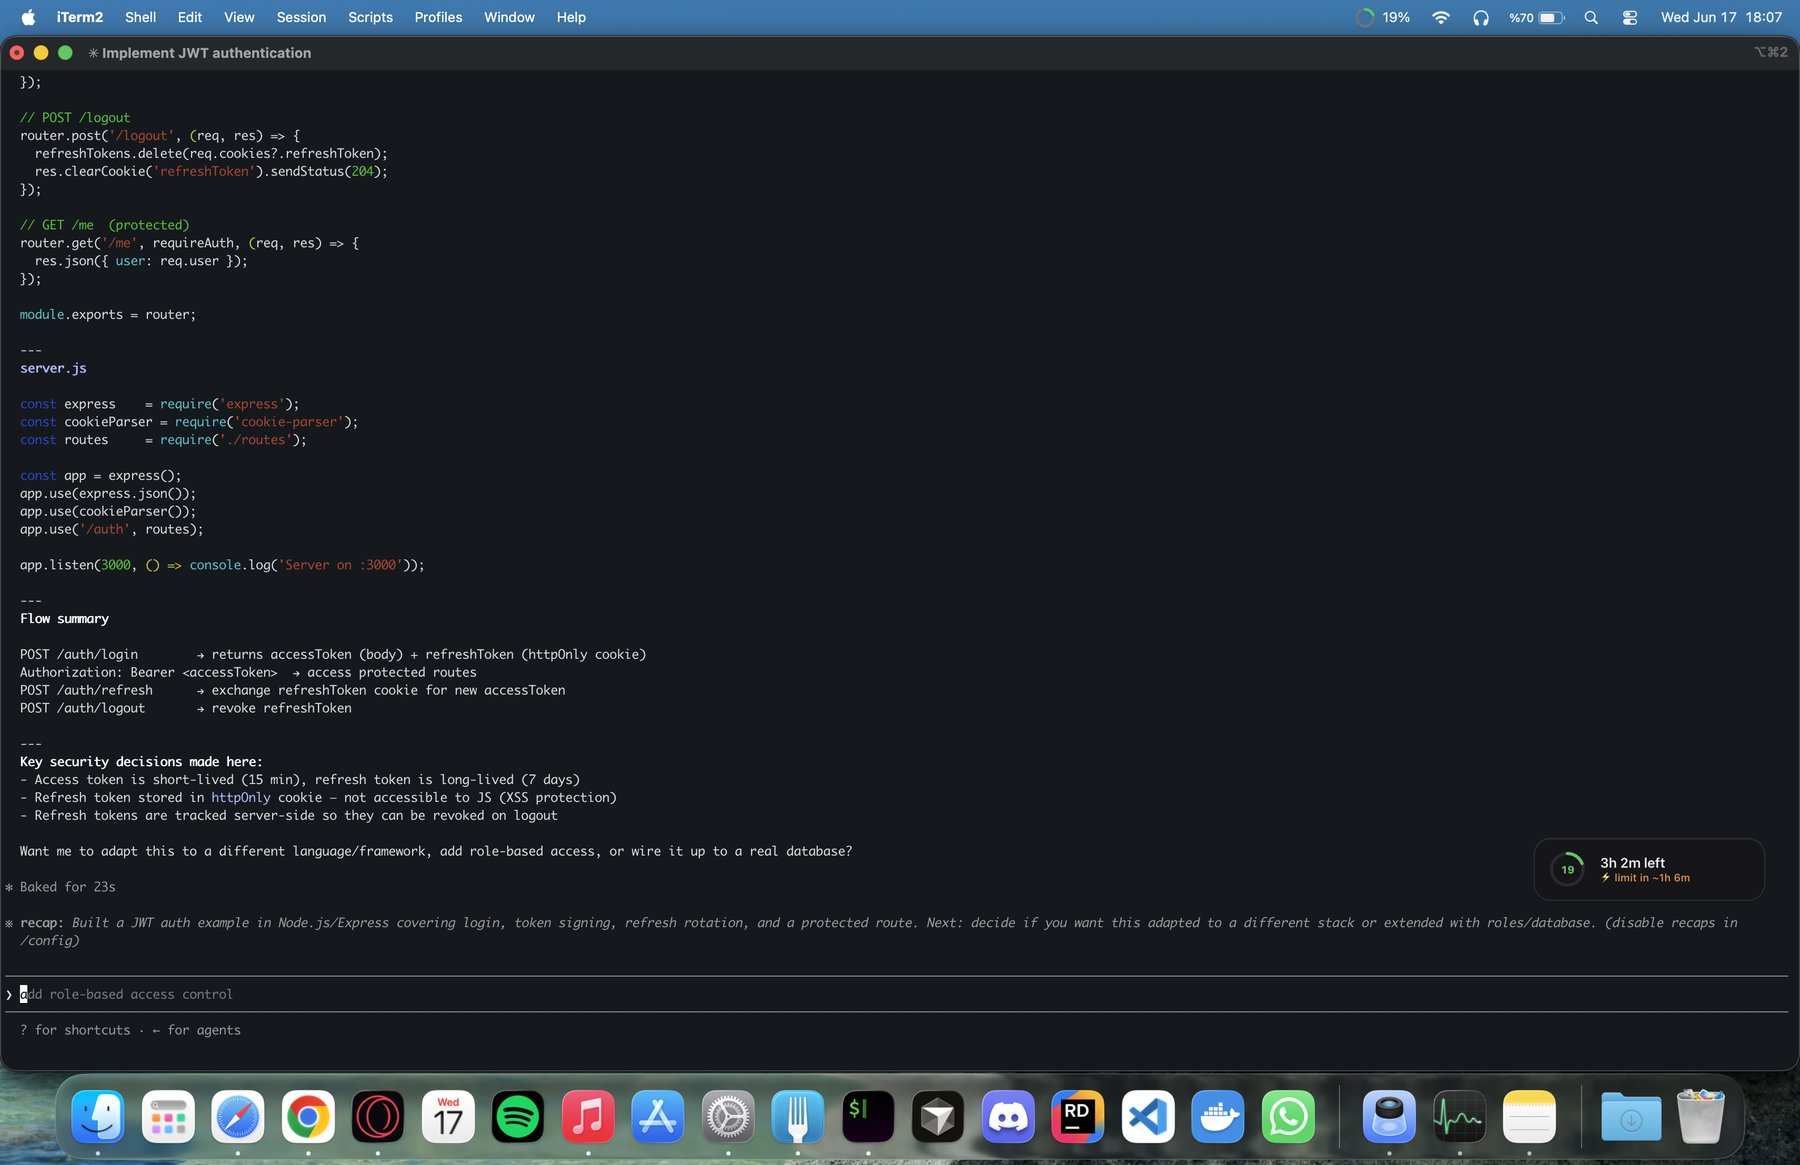
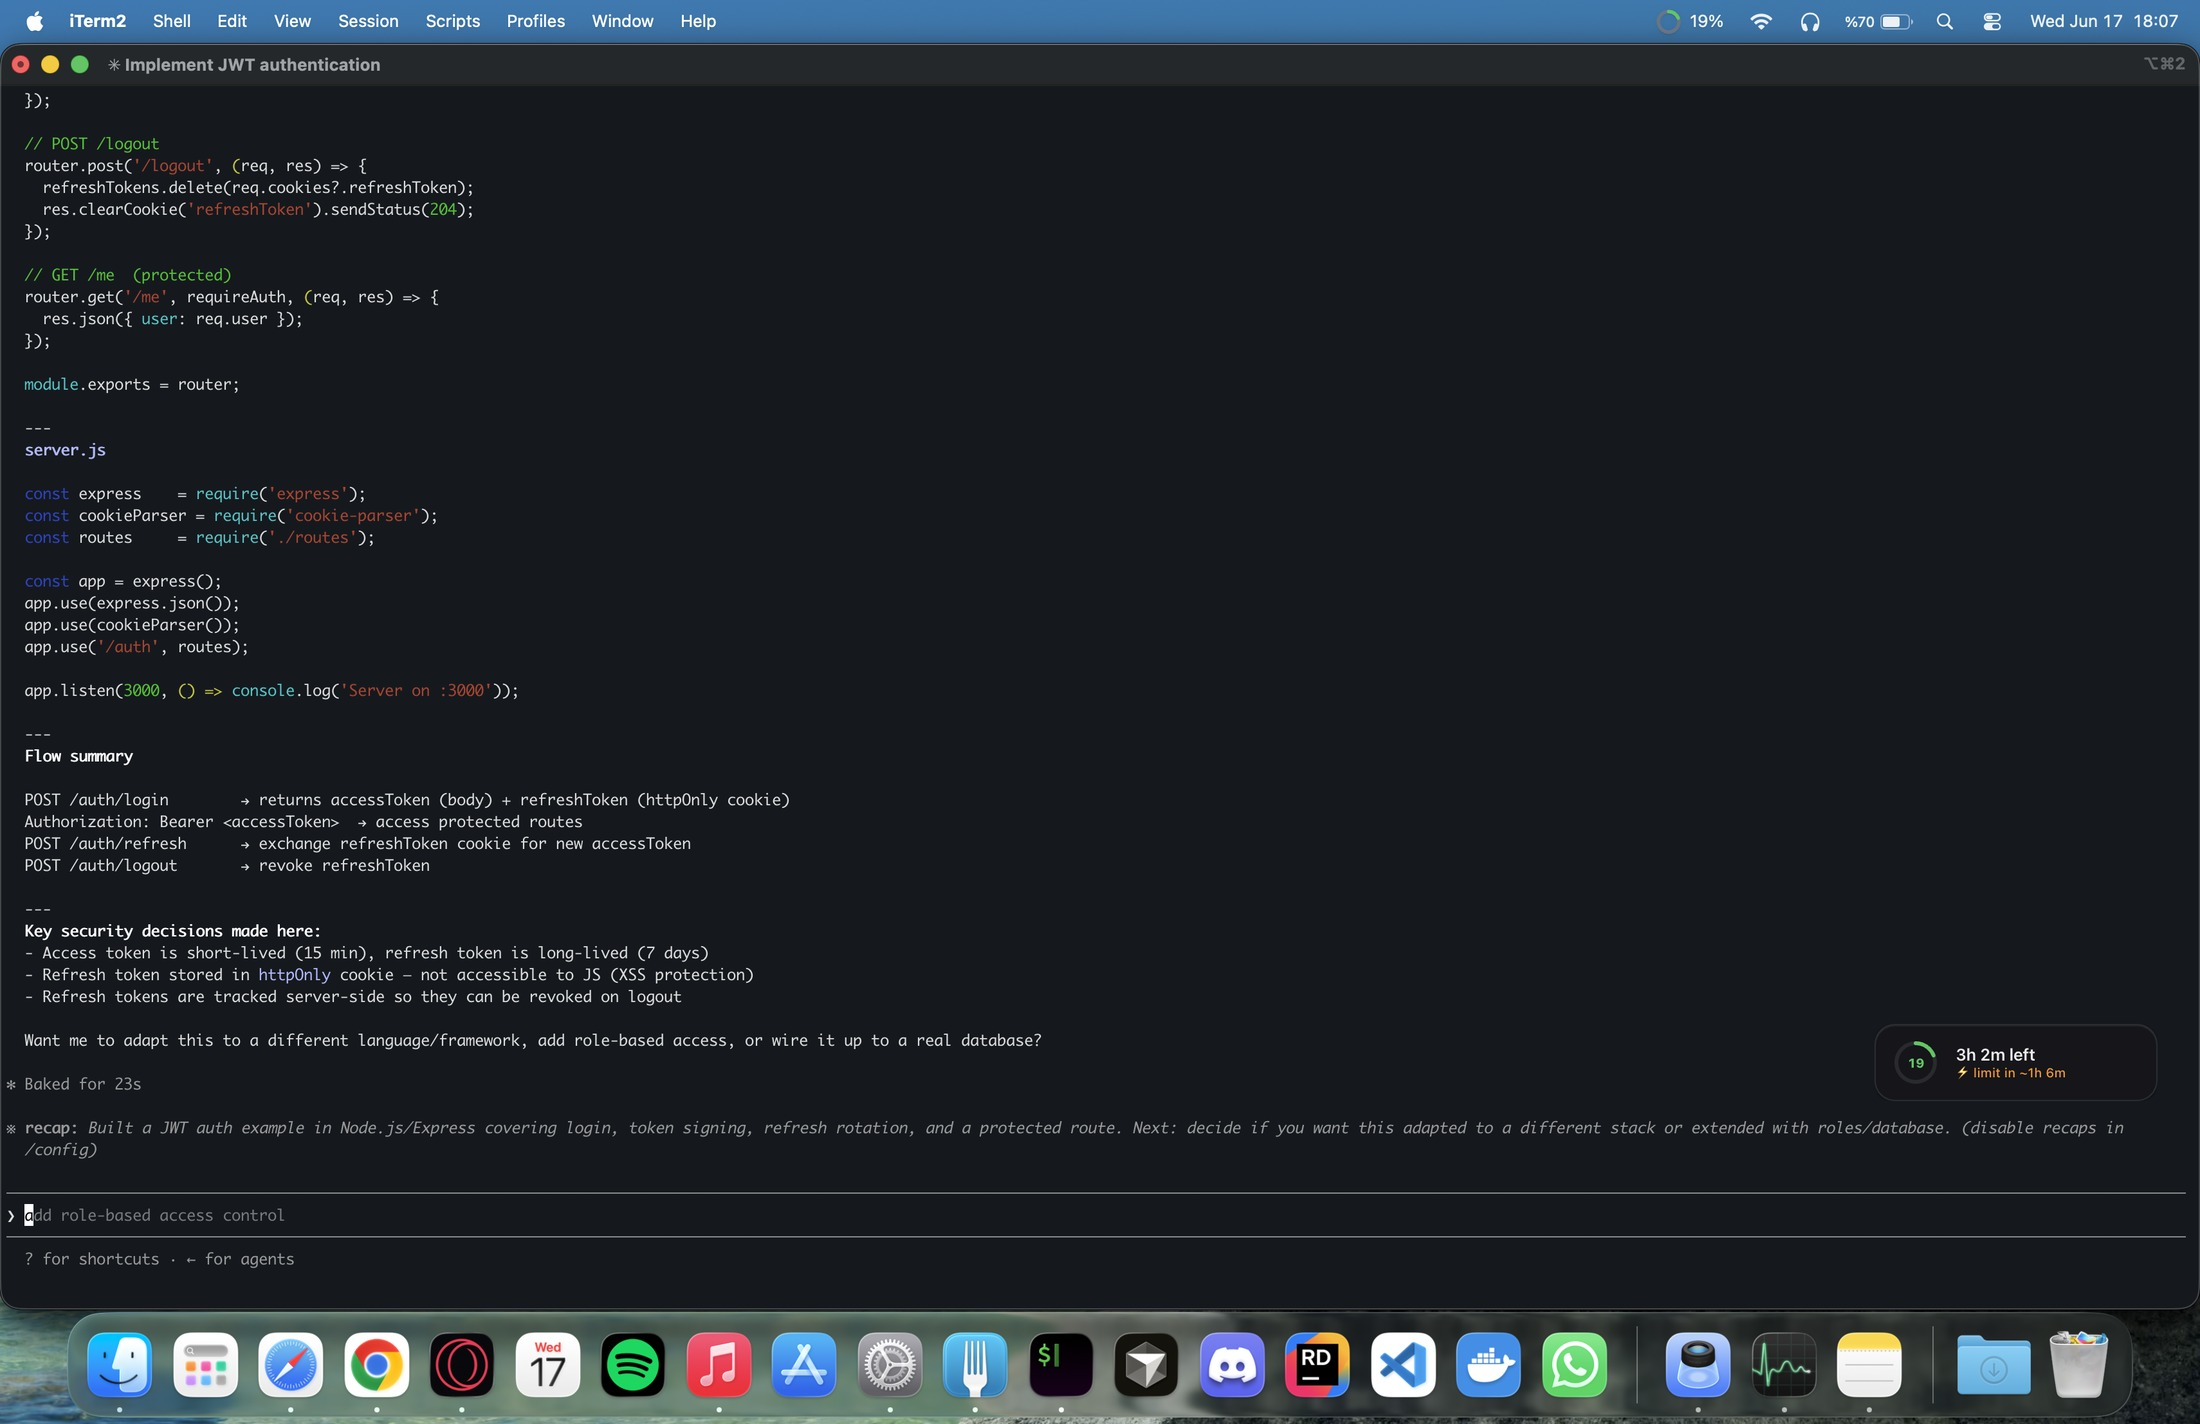
Higher image quality: PNG for UI crops, hi-res JPEG for hero/widget

diff --git a/index.html b/index.html
@@ -339,9 +339,9 @@
     <p><strong>Floating widget</strong> — stays visible above every window while you code</p>
   </div>
   <div class="showcase-pops">
-    <div class="pop-card"><img src="pop-history.jpg" alt="Usage history and charts"><p><strong>History &amp; trends</strong><br>14-day charts, streaks &amp; export</p></div>
-    <div class="pop-card"><img src="pop-notifs.jpg" alt="Notification settings"><p><strong>Alerts your way</strong><br>Thresholds, quiet hours, Slack</p></div>
-    <div class="pop-card"><img src="pop-accounts.jpg" alt="Multiple Claude accounts"><p><strong>Multiple accounts</strong><br>Switch in one click</p></div>
+    <div class="pop-card"><img src="pop-history.png" alt="Usage history and charts"><p><strong>History &amp; trends</strong><br>14-day charts, streaks &amp; export</p></div>
+    <div class="pop-card"><img src="pop-notifs.png" alt="Notification settings"><p><strong>Alerts your way</strong><br>Thresholds, quiet hours, Slack</p></div>
+    <div class="pop-card"><img src="pop-accounts.png" alt="Multiple Claude accounts"><p><strong>Multiple accounts</strong><br>Switch in one click</p></div>
   </div>
 </section>
 